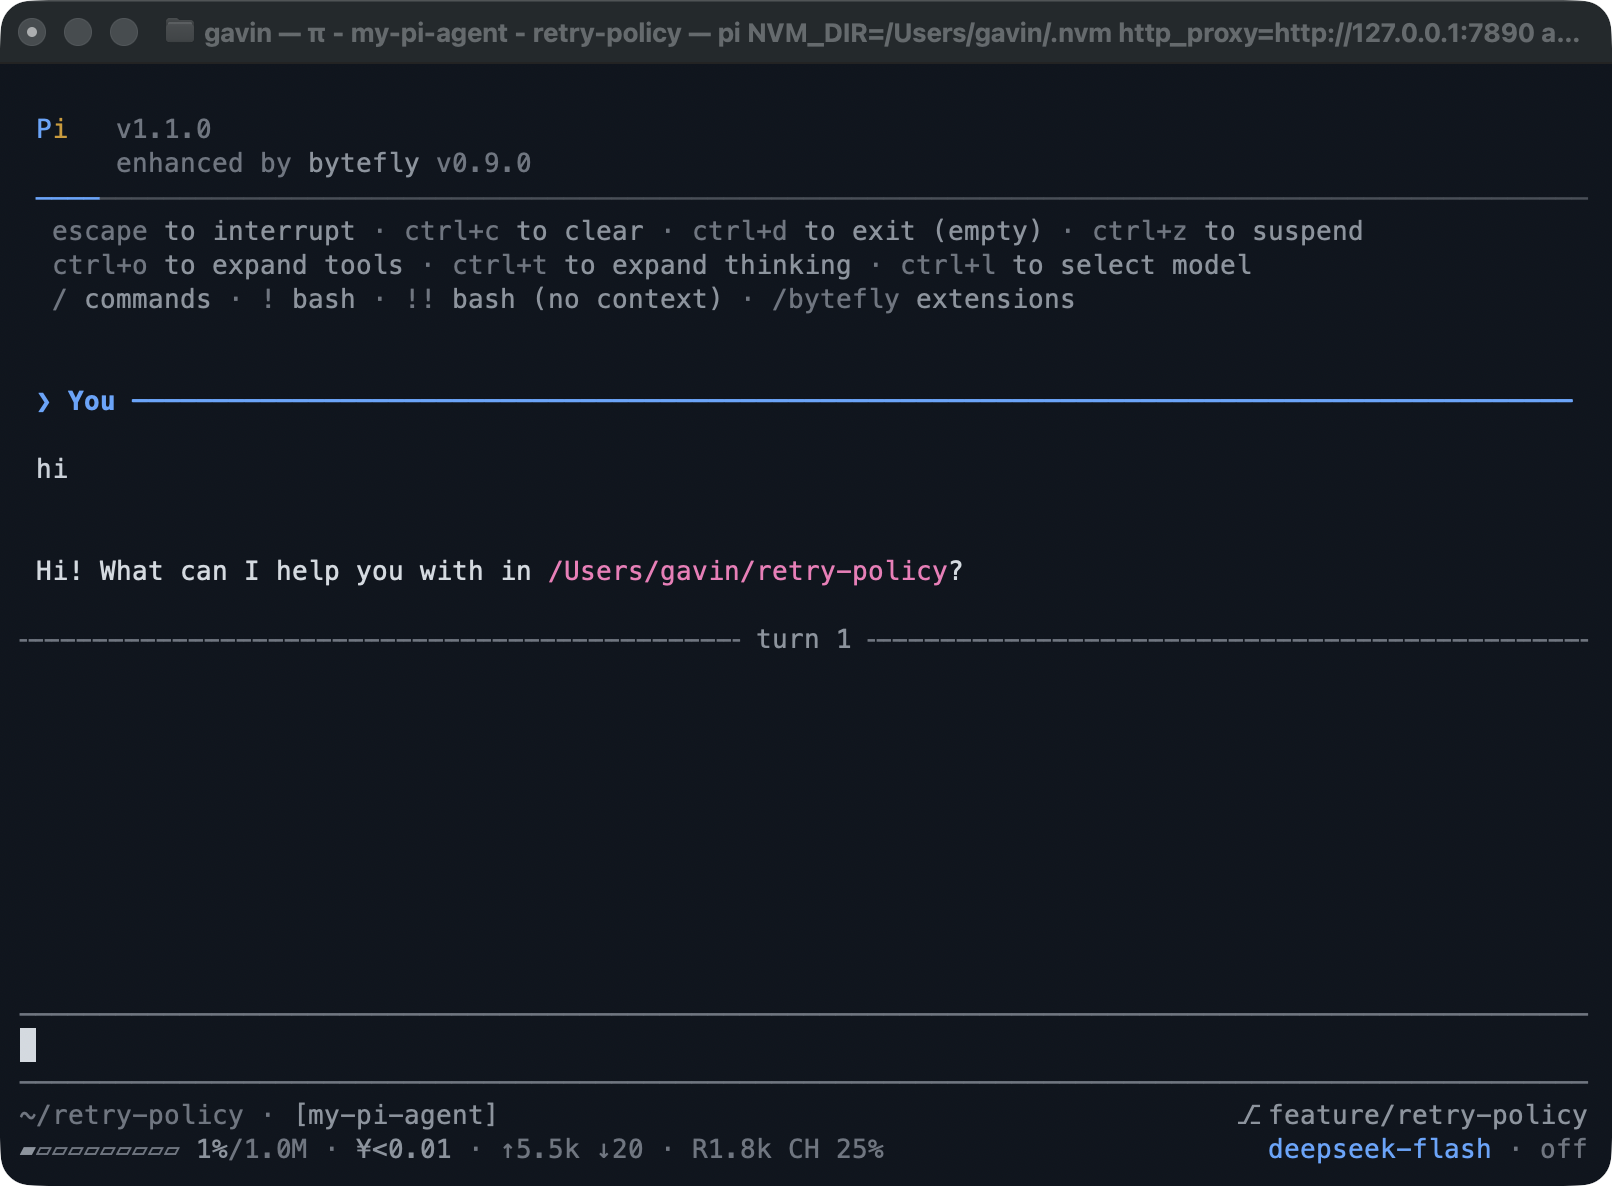
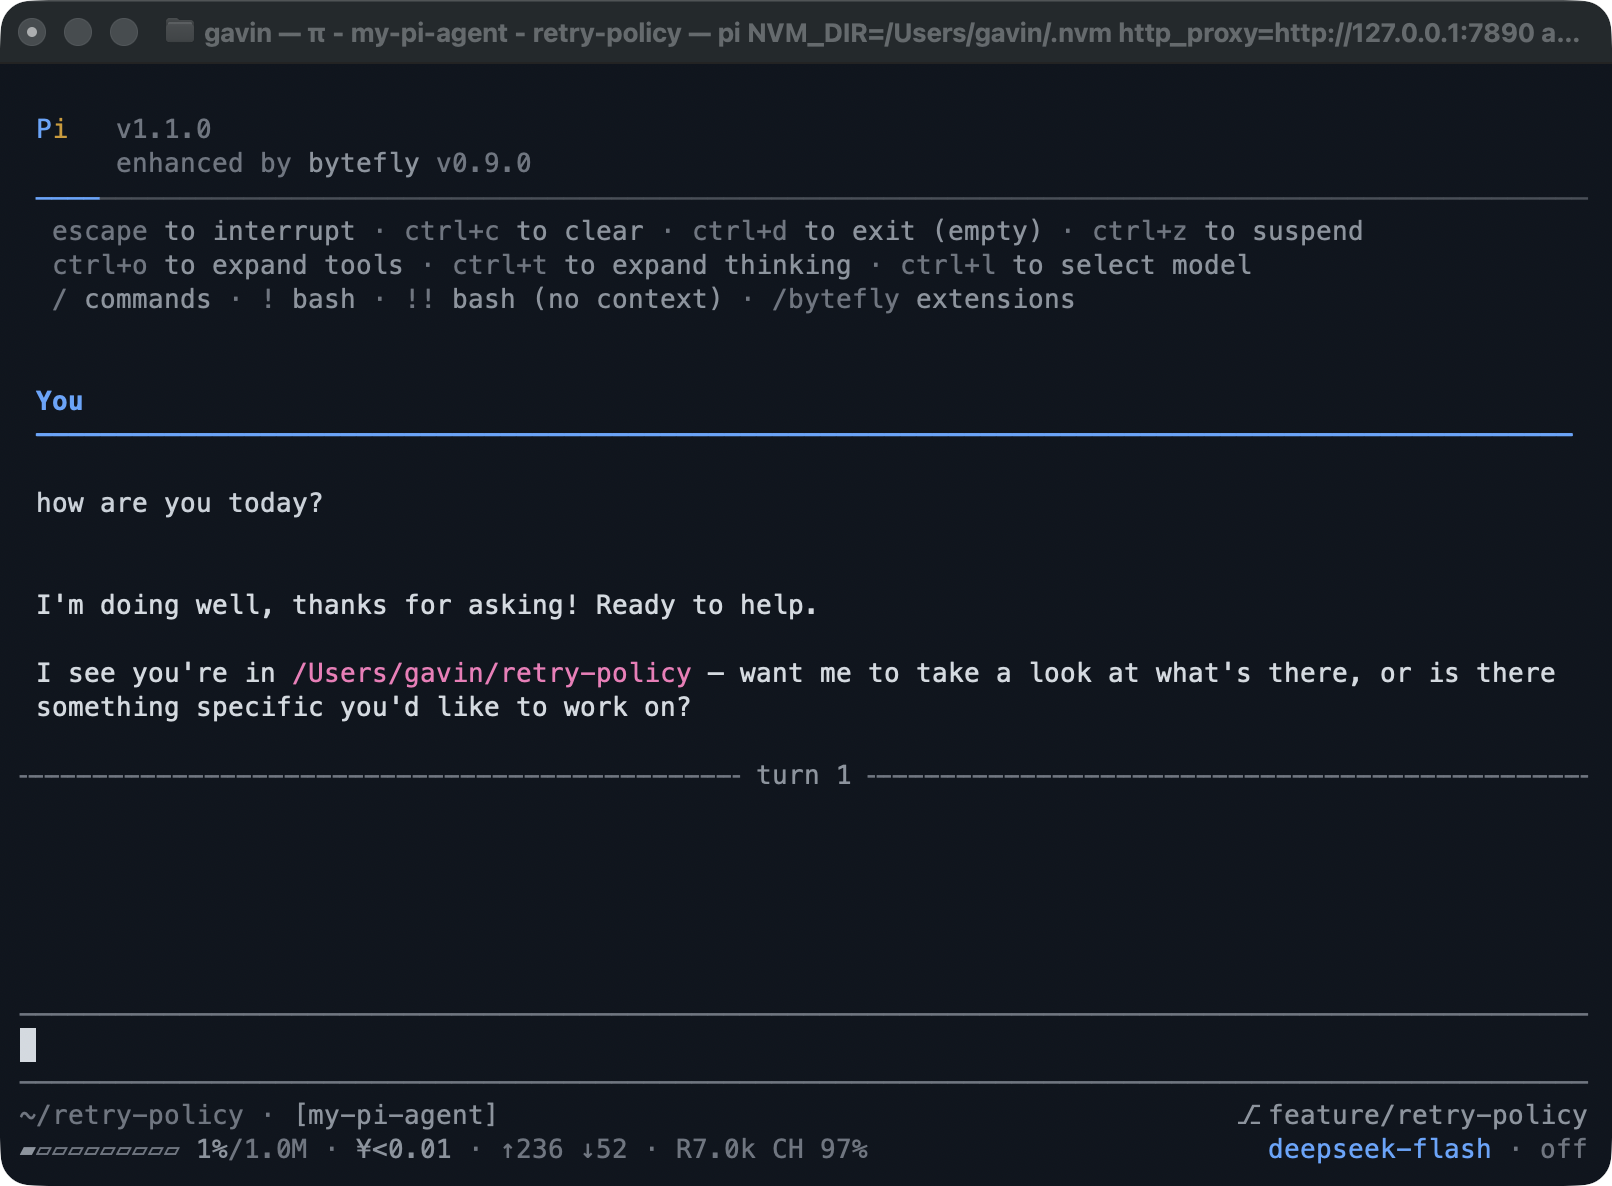
docs(screenshots): show the two-row nameplate in the hero
Refresh assets/chrome.png against the new user nameplate, and ask "how are
you today?" in the capture, so the hero no longer shows the removed `❯`
marker.

diff --git a/scripts/screenshots.ts b/scripts/screenshots.ts
@@ -601,7 +601,7 @@ async function captureChrome(): Promise<void> {
 		`for n in \${(k)parameters}; do case \${n:u} in *KEY*|*TOKEN*|*SECRET*|*PASSWORD*) unset $n ;; esac; done; ` +
 		`${shellQuote(pi)} -ne --offline -e ${shellQuote(repo)} --no-themes ` +
 		`--theme ${shellQuote(join(repo, "themes", "bytefly-dark.json"))} --use-theme bytefly-dark ` +
-		`--thinking off -n my-pi-agent 'hi' --session ${shellQuote(session)} -a`;
+		`--thinking off -n my-pi-agent 'how are you today?' --session ${shellQuote(session)} -a`;
 	const before = new Set(windowIds());
 	osascript('tell application "Terminal" to do script ""');
 	const id = await waitForNewWindow(before, 5_000);

diff --git a/CHANGELOG.md b/CHANGELOG.md
@@ -51,6 +51,9 @@ to [Semantic Versioning](https://semver.org/spec/v2.0.0.html).
   throwaway demo repo, so an outdated local `pi` can no longer add an "Update
   Available" box to the hero and the bar shows a short path and a branch instead
   of this checkout's worktree path; `assets/chrome.png` is refreshed.
+- Tooling: the hero capture asks "how are you today?" and `assets/chrome.png` is
+  refreshed, so the hero shows the two-row user nameplate instead of the removed
+  `❯` marker.
 - `bytefly`: a finished tool block's rail is now neutral (`dim`) instead of green,
   and a notice's rail follows the same rule, so only a running call takes the
   accent and only a failure is red; a notice's row glyphs keep their severity
